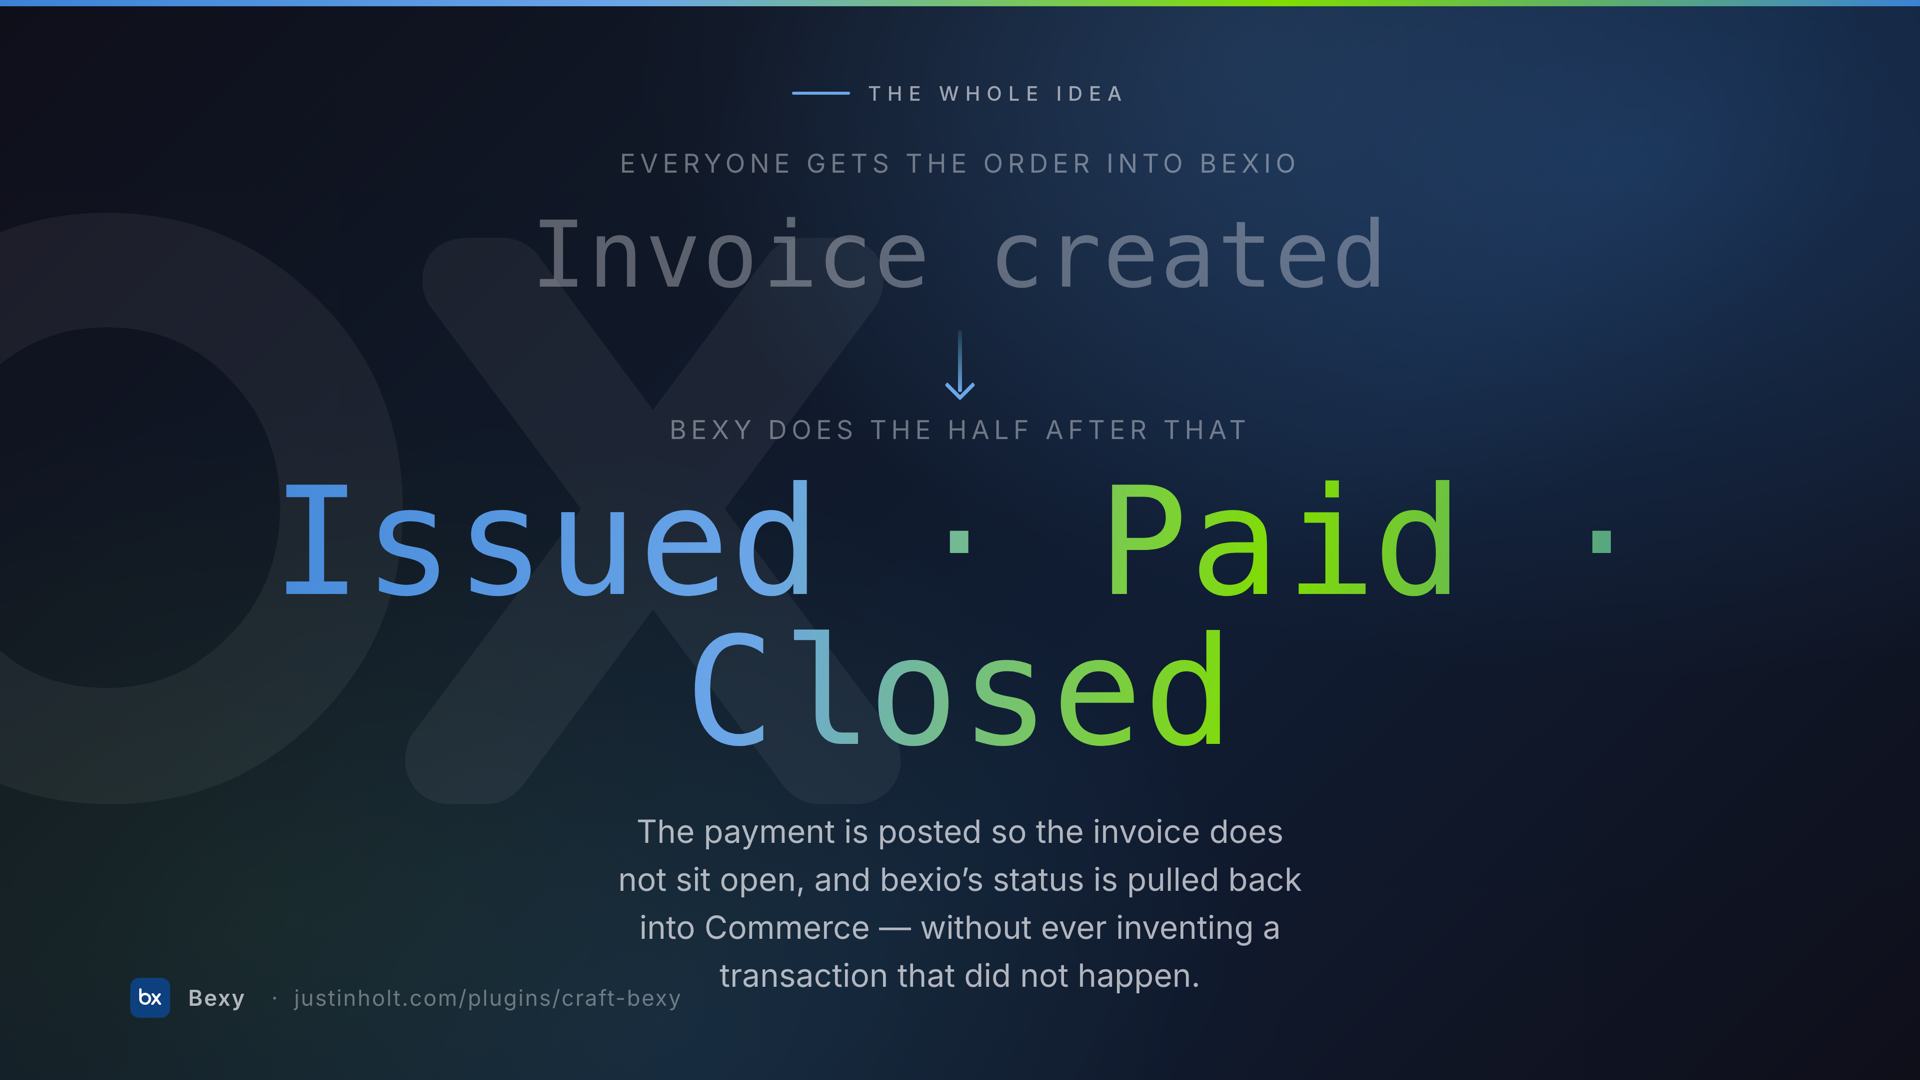
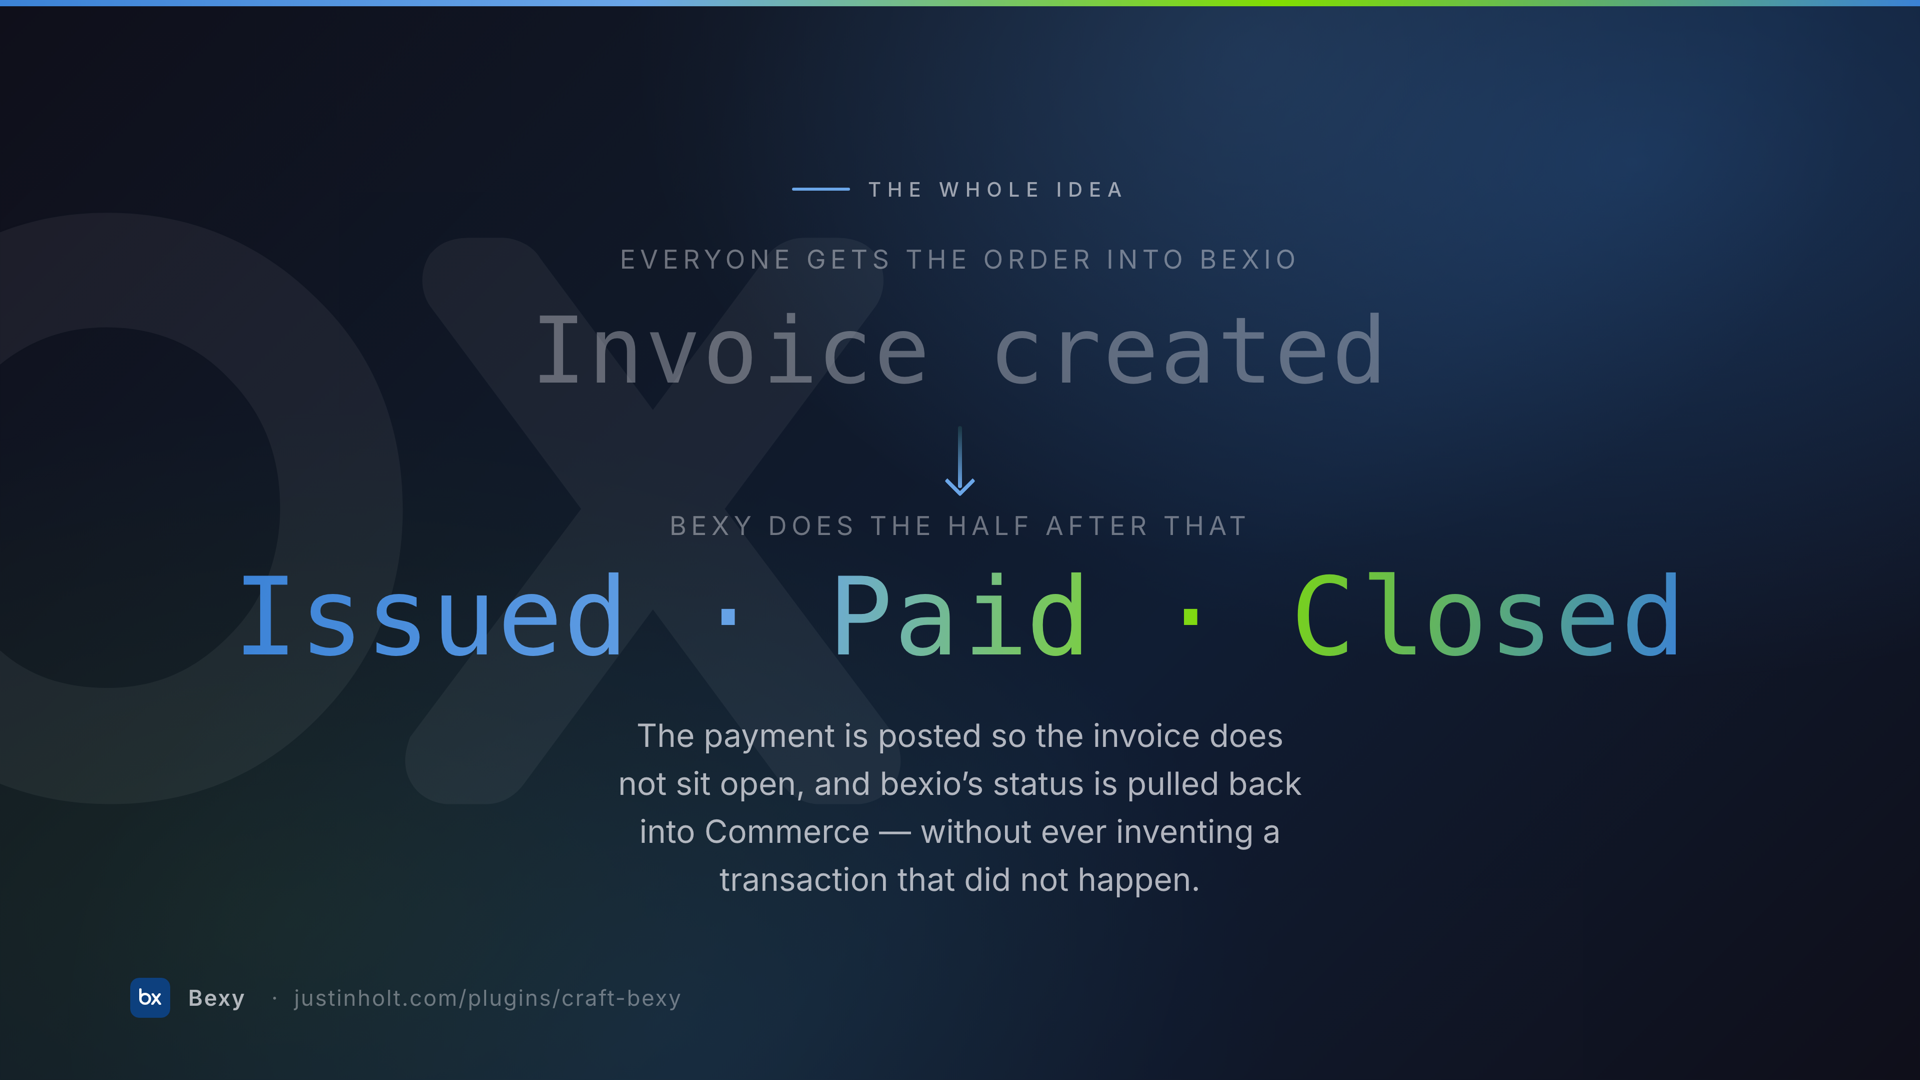
Promos: keep the statement slide on one line
"Issued · Paid · Closed" is 22 monospace characters where the slide was sized
for a single short token, so it wrapped past the right edge and pushed the lede
onto the footer.

Claude-Session: https://claude.ai/code/session_01SaybuyAQCGMNT1F8QaSHSL

diff --git a/promos/slides.html b/promos/slides.html
@@ -192,6 +192,10 @@
     line-height: 1;
     letter-spacing: 0.01em;
   }
+  /* This deck's after-state is a phrase rather than a single token, so it needs
+     to be told not to wrap — and sized to fit 1660px of usable width. */
+  .statement .after { font-size: 108px; white-space: nowrap; }
+  .statement .lede { margin-top: 52px; }
   .statement .lede { margin-top: 40px; max-width: 34ch; font-size: 32px; }
 
   /* ---- feature slides -------------------------------------------------- */
